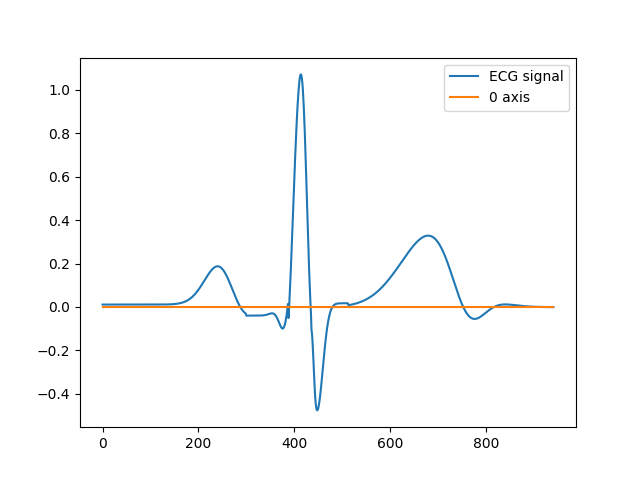
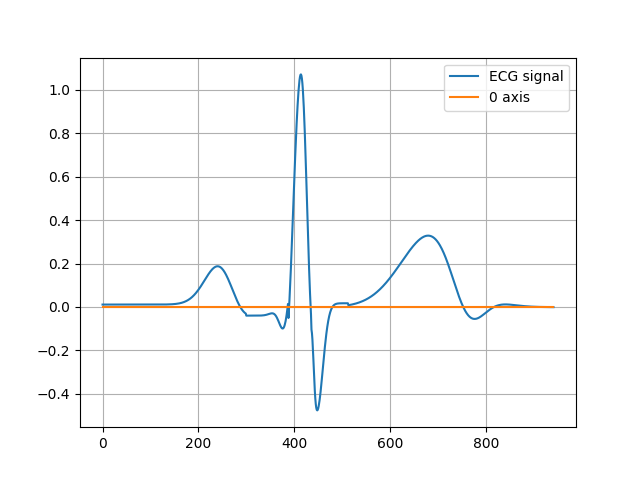
config added

diff --git a/run_generation.py b/run_generation.py
@@ -1,7 +1,15 @@
 import numpy as np
 import matplotlib.pyplot as plt
+import json
 
 from ecg_base import generateBaseEcg 
+
+json_file = open('generation_config.json')
+
+config = json.load(json_file)
+
+print("Config: ")
+print(config)
 
 A = [[-0.313,	-4.680,	1.057,	-0.500,	0.345],
     [0.373	,4.726	,0.690	,0.228	,-0.223]]
@@ -18,6 +26,7 @@ signal = generateBaseEcg(Lengths,A,T,S,C)
 plt.plot(signal)
 plt.plot(np.zeros(len(signal)))
 plt.legend(["ECG signal", "0 axis"])
-plt.savefig("./files/plot.png")
+plt.grid(True)
+plt.savefig("files/plot.png")
 
 print("Plot saved!")
